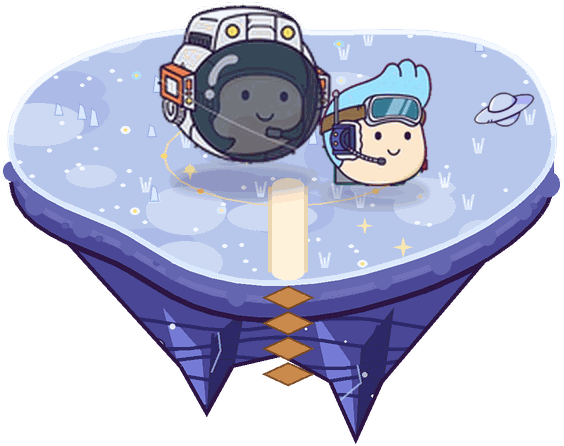
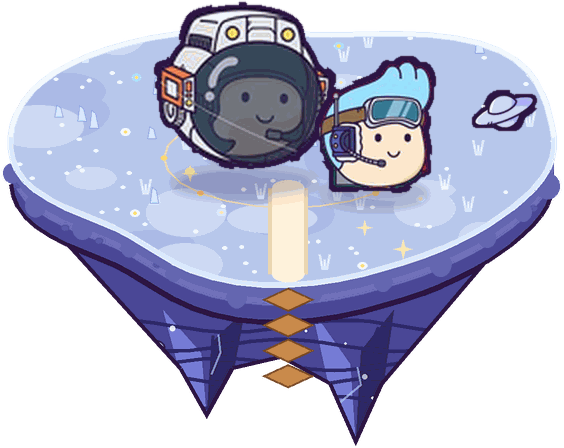
Map: hand-lettered labels (white, thin ink outline, gold for Work with Ekky), shared wobbly ink outline on every cut-out, a 300 ms drawn reaction before a place opens
Claude-Session: https://claude.ai/code/session_014vZdpSpioGFcCnWN5YbskU

diff --git a/assets/village/village.js b/assets/village/village.js
@@ -1,2 +1,2 @@
 // Generated by scripts/village.py from village.json. Do not edit.
-window.VILLAGE={"w": 601, "h": 827, "layers": {"sky": {"src": "assets/village/nebula.png", "x": 0, "y": 0, "w": 601, "h": 827}, "stars": {"src": "assets/village/stars.svg", "x": 0, "y": 0, "w": 601, "h": 827}, "north": {"src": "assets/village/island-north.png", "x": 149, "y": 27, "w": 282, "h": 223}, "mid": {"src": "assets/village/island-mid.png", "x": 14, "y": 167, "w": 584, "h": 508}, "south": {"src": "assets/village/island-south.png", "x": 176, "y": 501, "w": 336, "h": 323}}, "frames": [{"wall": "left", "x": 368.7, "y": 272.8, "w": 38.1, "h": 56, "slope": 0.5}, {"wall": "left", "x": 419.1, "y": 298.0, "w": 38.1, "h": 56, "slope": 0.5}, {"wall": "right", "x": 480.7, "y": 313.2, "w": 38.1, "h": 56, "slope": -0.5}, {"wall": "right", "x": 531.1, "y": 288.0, "w": 38.1, "h": 56, "slope": -0.5}], "places": {"observatory": {"box": [223, 21, 319, 117], "label": [271.0, 129]}, "gallery": {"box": [353, 195, 578, 405], "label": [465, 411]}, "studio": {"box": [51, 167, 224, 335], "label": [137.5, 347]}, "home": {"box": [238, 215, 371, 415], "label": [304.5, 419]}, "doodle": {"box": [109, 397, 201, 489], "label": [155.0, 493]}, "hire": {"box": [264, 501, 401, 673], "label": [332.5, 677]}}, "folk": {"fire-spirit": {"piece": "rpg", "box": [504, 311, 537, 363]}, "noodle-bath": {"piece": "noodles", "box": [14, 323, 75, 397]}, "ufo": {"piece": "doodles", "box": [116, 35, 178, 91]}}, "walkers": [{"name": "car", "piece": "road-trip", "src": "assets/sprites/car.png", "h": 52, "face": -1, "aspect": 1.379, "route": [[233, 357], [159, 333]]}, {"name": "dog", "piece": "doodles", "src": "assets/sprites/dog.png", "h": 70, "face": -1, "aspect": 0.713, "route": [[251, 409], [195, 447]]}, {"name": "plug-hero", "piece": "plug-hero", "src": "assets/sprites/plug-hero.png", "h": 66, "face": -1, "aspect": 0.821, "route": [[365, 377], [433, 367]]}, {"name": "orange-monster", "piece": "doodles", "src": "assets/sprites/orange-monster.png", "h": 44, "face": 1, "aspect": 1.078, "route": [[293, 131], [293, 165], [293, 213]]}, {"name": "crab", "piece": "summertime", "src": "assets/sprites/crab.png", "h": 30, "face": 0, "aspect": 1.442, "route": [[225, 647], [261, 629]]}], "scenery": [], "lantern": [320.4, 617.1], "ufo": {"src": "assets/sprites/ufo.png", "box": [116, 35, 178, 91], "layer": "north"}, "smoke": [[44.5, 341]]};
+window.VILLAGE={"w": 601, "h": 827, "layers": {"sky": {"src": "assets/village/nebula.png", "x": 0, "y": 0, "w": 601, "h": 827}, "stars": {"src": "assets/village/stars.svg", "x": 0, "y": 0, "w": 601, "h": 827}, "north": {"src": "assets/village/island-north.png", "x": 149, "y": 26, "w": 282, "h": 224}, "mid": {"src": "assets/village/island-mid.png", "x": 11, "y": 164, "w": 587, "h": 511}, "south": {"src": "assets/village/island-south.png", "x": 176, "y": 498, "w": 338, "h": 326}}, "frames": [{"wall": "left", "x": 368.7, "y": 272.8, "w": 38.1, "h": 56, "slope": 0.5}, {"wall": "left", "x": 419.1, "y": 298.0, "w": 38.1, "h": 56, "slope": 0.5}, {"wall": "right", "x": 480.7, "y": 313.2, "w": 38.1, "h": 56, "slope": -0.5}, {"wall": "right", "x": 531.1, "y": 288.0, "w": 38.1, "h": 56, "slope": -0.5}], "places": {"observatory": {"box": [223, 21, 319, 117], "label": [271.0, 129]}, "gallery": {"box": [353, 195, 578, 405], "label": [465, 411]}, "studio": {"box": [51, 167, 224, 335], "label": [137.5, 347]}, "home": {"box": [238, 215, 371, 415], "label": [304.5, 419]}, "doodle": {"box": [109, 397, 201, 489], "label": [155.0, 493]}, "hire": {"box": [264, 501, 401, 673], "label": [332.5, 677]}}, "folk": {"fire-spirit": {"piece": "rpg", "box": [504, 311, 537, 363]}, "noodle-bath": {"piece": "noodles", "box": [14, 323, 75, 397]}, "ufo": {"piece": "doodles", "box": [116, 35, 178, 91]}}, "walkers": [{"name": "car", "piece": "road-trip", "src": "assets/sprites/car.png", "h": 52, "face": -1, "aspect": 1.379, "route": [[233, 357], [159, 333]]}, {"name": "dog", "piece": "doodles", "src": "assets/sprites/dog.png", "h": 70, "face": -1, "aspect": 0.713, "route": [[251, 409], [195, 447]]}, {"name": "plug-hero", "piece": "plug-hero", "src": "assets/sprites/plug-hero.png", "h": 66, "face": -1, "aspect": 0.821, "route": [[365, 377], [433, 367]]}, {"name": "orange-monster", "piece": "doodles", "src": "assets/sprites/orange-monster.png", "h": 44, "face": 1, "aspect": 1.078, "route": [[293, 131], [293, 165], [293, 213]]}, {"name": "crab", "piece": "summertime", "src": "assets/sprites/crab.png", "h": 30, "face": 0, "aspect": 1.442, "route": [[225, 647], [261, 629]]}], "scenery": [], "lantern": [320.4, 617.1], "ufo": {"src": "assets/sprites/ufo.png", "box": [116, 35, 178, 91], "layer": "north"}, "smoke": [[44.5, 341]]};

diff --git a/js/game.js b/js/game.js
@@ -313,7 +313,15 @@ function openVillager(b){const k=+b.dataset.piece,p=PROJECTS[k];if(!p)return;
     ${plabel(p)?`<p><span class="tag">${esc(plabel(p))}</span></p>`:""}<p>${esc(pdesc(p))}</p><p><button class="g-btn" data-see="${k}">${ico("i-eye")} ${esc(t("town.seeArt"))}</button></p></div>`+hireChip())}
 $("gMapWrap").addEventListener("click",e=>{const v=e.target.closest(".v-folk,.v-walker");if(v){buzz(10);sfx("tap");return openVillager(v)}
   const b=e.target.closest(".v-place,.v-label");if(!b)return;buzz(15);sfx("tap");
-  const pl=PLACES.find(p=>p.id===b.dataset.place);pl.open(pl)});
+  const pl=PLACES.find(p=>p.id===b.dataset.place);placeTap(pl,()=>pl.open(pl))});
+// One small drawn reaction (300 ms) before a place opens: its label lifts and a ring of gold sparks flies out of the place.
+function placeTap(pl,open){const V=window.VILLAGE,W=$("gMapWrap"),z=$("gMapZoom"),box=V.places[pl.id].box;
+  if(calm()||!z||!z.isConnected){open();return}
+  const lab=W.querySelector(`.v-label[data-place="${pl.id}"]`);if(lab){lab.classList.add("go");setTimeout(()=>lab.classList.remove("go"),420)}
+  const cx=(box[0]+box[2])/2,cy=(box[1]+box[3])/2,k=100/V.w,fx=document.createElement("div");fx.className="v-burst";fx.style.cssText=`left:${pct(cx,V.w)};top:${pct(cy,V.h)}`;
+  for(let i=0;i<8;i++){const a=i/8*Math.PI*2+.3,r=(box[2]-box[0])*.55,s=document.createElement("i");fx.appendChild(s);
+    s.animate([{transform:"translate(0,0) scale(.3)",opacity:0},{opacity:1,offset:.25},{transform:`translate(${(Math.cos(a)*r*k).toFixed(2)}cqw,${(Math.sin(a)*r*k*.8).toFixed(2)}cqw) scale(1)`,opacity:0}],{duration:300,easing:EZI})}
+  z.appendChild(fx);setTimeout(()=>fx.remove(),340);setTimeout(open,300)}
 $("gMapList").addEventListener("click",e=>{const b=e.target.closest("[data-place]");if(b){buzz(10);sfx("tap");const pl=PLACES.find(p=>p.id===b.dataset.place);pl.open(pl)}});
 // The list view replaces the island on the same screen (each place once, 48 px rows); the same link switches back.
 $("gMapListBtn").onclick=()=>{const l=$("gMapList"),open=l.hidden,b=$("gMapListBtn");l.hidden=!open;$("gMapWrap").hidden=open;

diff --git a/css/game.css b/css/game.css
@@ -948,9 +948,15 @@ body.game-mode #game.at-paper{background:var(--paper,#FBF7EE) var(--grain);color
 .aa-chk input{width:24px;height:24px;flex:none;accent-color:#2B1342}
 .aa-dim{opacity:.55}
 #g-map .v-map{align-self:center;margin:auto 0;max-width:460px;border-radius:0}   /* centred in the band under the title, edge to edge on a phone */
-.v-map .v-label{font-size:clamp(12px,2.35cqw,13.5px);padding:2px 8px;border-radius:6px;background:#FFF3DC;border:2px solid #2B1342;color:#2B1342;box-shadow:0 2px 0 rgba(43,19,66,.55);rotate:-1.6deg}
-.v-map span.v-label:nth-of-type(even){rotate:1.4deg}   /* paper tags, each at its own fixed tilt */
-.v-map .v-label.hire{background:#FFB400;border-color:#2B1342;color:#2B1342}
+/* labels are hand-weight lettering straight on the picture: white with a thin dark ink outline, "Work with Ekky" gold */
+.v-map .v-label{font-size:clamp(12px,2.7cqw,14px);padding:0;border:0;border-radius:0;background:none;box-shadow:none;color:#fff;letter-spacing:.01em;
+  -webkit-text-stroke:2.6px #2B1342;paint-order:stroke fill;text-shadow:0 1px 3px rgba(43,19,66,.55);font-weight:800;rotate:-1.2deg}
+.v-map span.v-label:nth-of-type(even){rotate:1deg}
+.v-map .v-label.hire{color:#FFD23F;border:0;background:none;-webkit-text-stroke:3.4px #2B1342;text-shadow:0 0 6px rgba(43,19,66,.9)}
 .v-label{transition:transform var(--dur-fast) var(--ease-move),opacity .2s}
 .v-label.edge{opacity:0;pointer-events:none}
 @media (hover:none) and (pointer:coarse){.v-zoomctl{display:none}}   /* a touch screen pinches or double-taps; the +/- buttons are for a mouse */
+.v-burst{position:absolute;width:0;height:0;pointer-events:none;z-index:3}
+.v-burst i{position:absolute;left:0;top:0;width:2.2cqw;height:2.2cqw;margin:-1.1cqw 0 0 -1.1cqw;background:#FFD678;
+  clip-path:polygon(50% 0,60% 40%,100% 50%,60% 60%,50% 100%,40% 60%,0 50%,40% 40%)}
+.v-map .v-label.go{translate:0 -4px;box-shadow:none}

diff --git a/scripts/village.py b/scripts/village.py
@@ -307,7 +307,29 @@ def radial(im, cx, cy, rx, ry, rgb, a, k):
     im.alpha_composite(Image.fromarray(lay), (x0, y0))
 
 
-def paste(img, name, foot, h, flip=False, shadow=True):
+INK_PAD = 6 * Z
+
+
+def inked(sp, name):
+    """Ekky's cut-out with one shared, slightly wobbly dark ink outline (about 2 px on a phone) around its silhouette,
+    so every character and prop on the islands reads as drawn on the same page. The wobble is a fixed noise per name."""
+    import random
+    rnd = np.random.RandomState(sum(map(ord, name)))
+    pad = INK_PAD
+    big = Image.new("RGBA", (sp.width + 2 * pad, sp.height + 2 * pad))
+    big.alpha_composite(sp, (pad, pad))
+    a = big.getchannel("A").point(lambda v: 255 if v > 40 else 0)
+    thin, thick = a.filter(ImageFilter.MaxFilter(2 * int(1.4 * Z) + 1)), a.filter(ImageFilter.MaxFilter(2 * int(2.4 * Z) + 1))
+    n = Image.fromarray((rnd.rand(big.height // 24 + 2, big.width // 24 + 2) * 255).astype(np.uint8)).resize(big.size, Image.BICUBIC)
+    n = n.filter(ImageFilter.GaussianBlur(4)).point(lambda v: 255 if v > 118 else 0)
+    ring = Image.composite(thick, thin, n).filter(ImageFilter.GaussianBlur(.6))
+    out = Image.new("RGBA", big.size, INK + (0,))
+    out.putalpha(ring)
+    out.alpha_composite(big)
+    return out
+
+
+def paste(img, name, foot, h, flip=False, shadow=True, ink=True):
     """Stand a cut-out with its bottom center on `foot` (canvas units), scaled to height h; img is Z times the canvas.
     Returns its box in canvas units."""
     sp = Image.open(os.path.join(ROOT, "assets", "sprites" if os.path.exists(os.path.join(ROOT, "assets", "sprites", name + ".png")) else "ui", name + ".png")).convert("RGBA")
@@ -320,8 +342,12 @@ def paste(img, name, foot, h, flip=False, shadow=True):
         sh = Image.new("RGBA", img.size)
         ImageDraw.Draw(sh).ellipse(((foot[0] - w * .38) * Z, (foot[1] - 7) * Z, (foot[0] + w * .38) * Z, (foot[1] + 7) * Z), fill=INK + (60,))
         img.alpha_composite(sh.filter(ImageFilter.GaussianBlur(3 * Z)))
+    box = [x // Z, y // Z, (x + w * Z) // Z, (y + h * Z) // Z]
+    if ink:
+        sp = inked(sp, name)
+        x, y = x - INK_PAD, y - INK_PAD
     img.alpha_composite(sp, (x, y))
-    return [x // Z, y // Z, (x + w * Z) // Z, (y + h * Z) // Z]
+    return box
 
 
 # name, height, facing, route (image pixels, on the paths and bridges drawn above)
@@ -514,7 +540,7 @@ def build():
     for name in ("mid", "north", "south"):
         img.alpha_composite(L[name])
     uimg = Image.new("RGBA", (W * Z, H * Z))
-    ubox = paste(uimg, "ufo", ufo["foot"], ufo["h"], shadow=False)
+    ubox = paste(uimg, "ufo", ufo["foot"], ufo["h"], shadow=False, ink=False)
     img.alpha_composite(uimg.crop(crop))
     # galaxy glow layer: white wherever the nebula shows between the islands, for its slow 10 % pulse
     small = img.resize((ex - ox, ey - oy), Image.LANCZOS)
